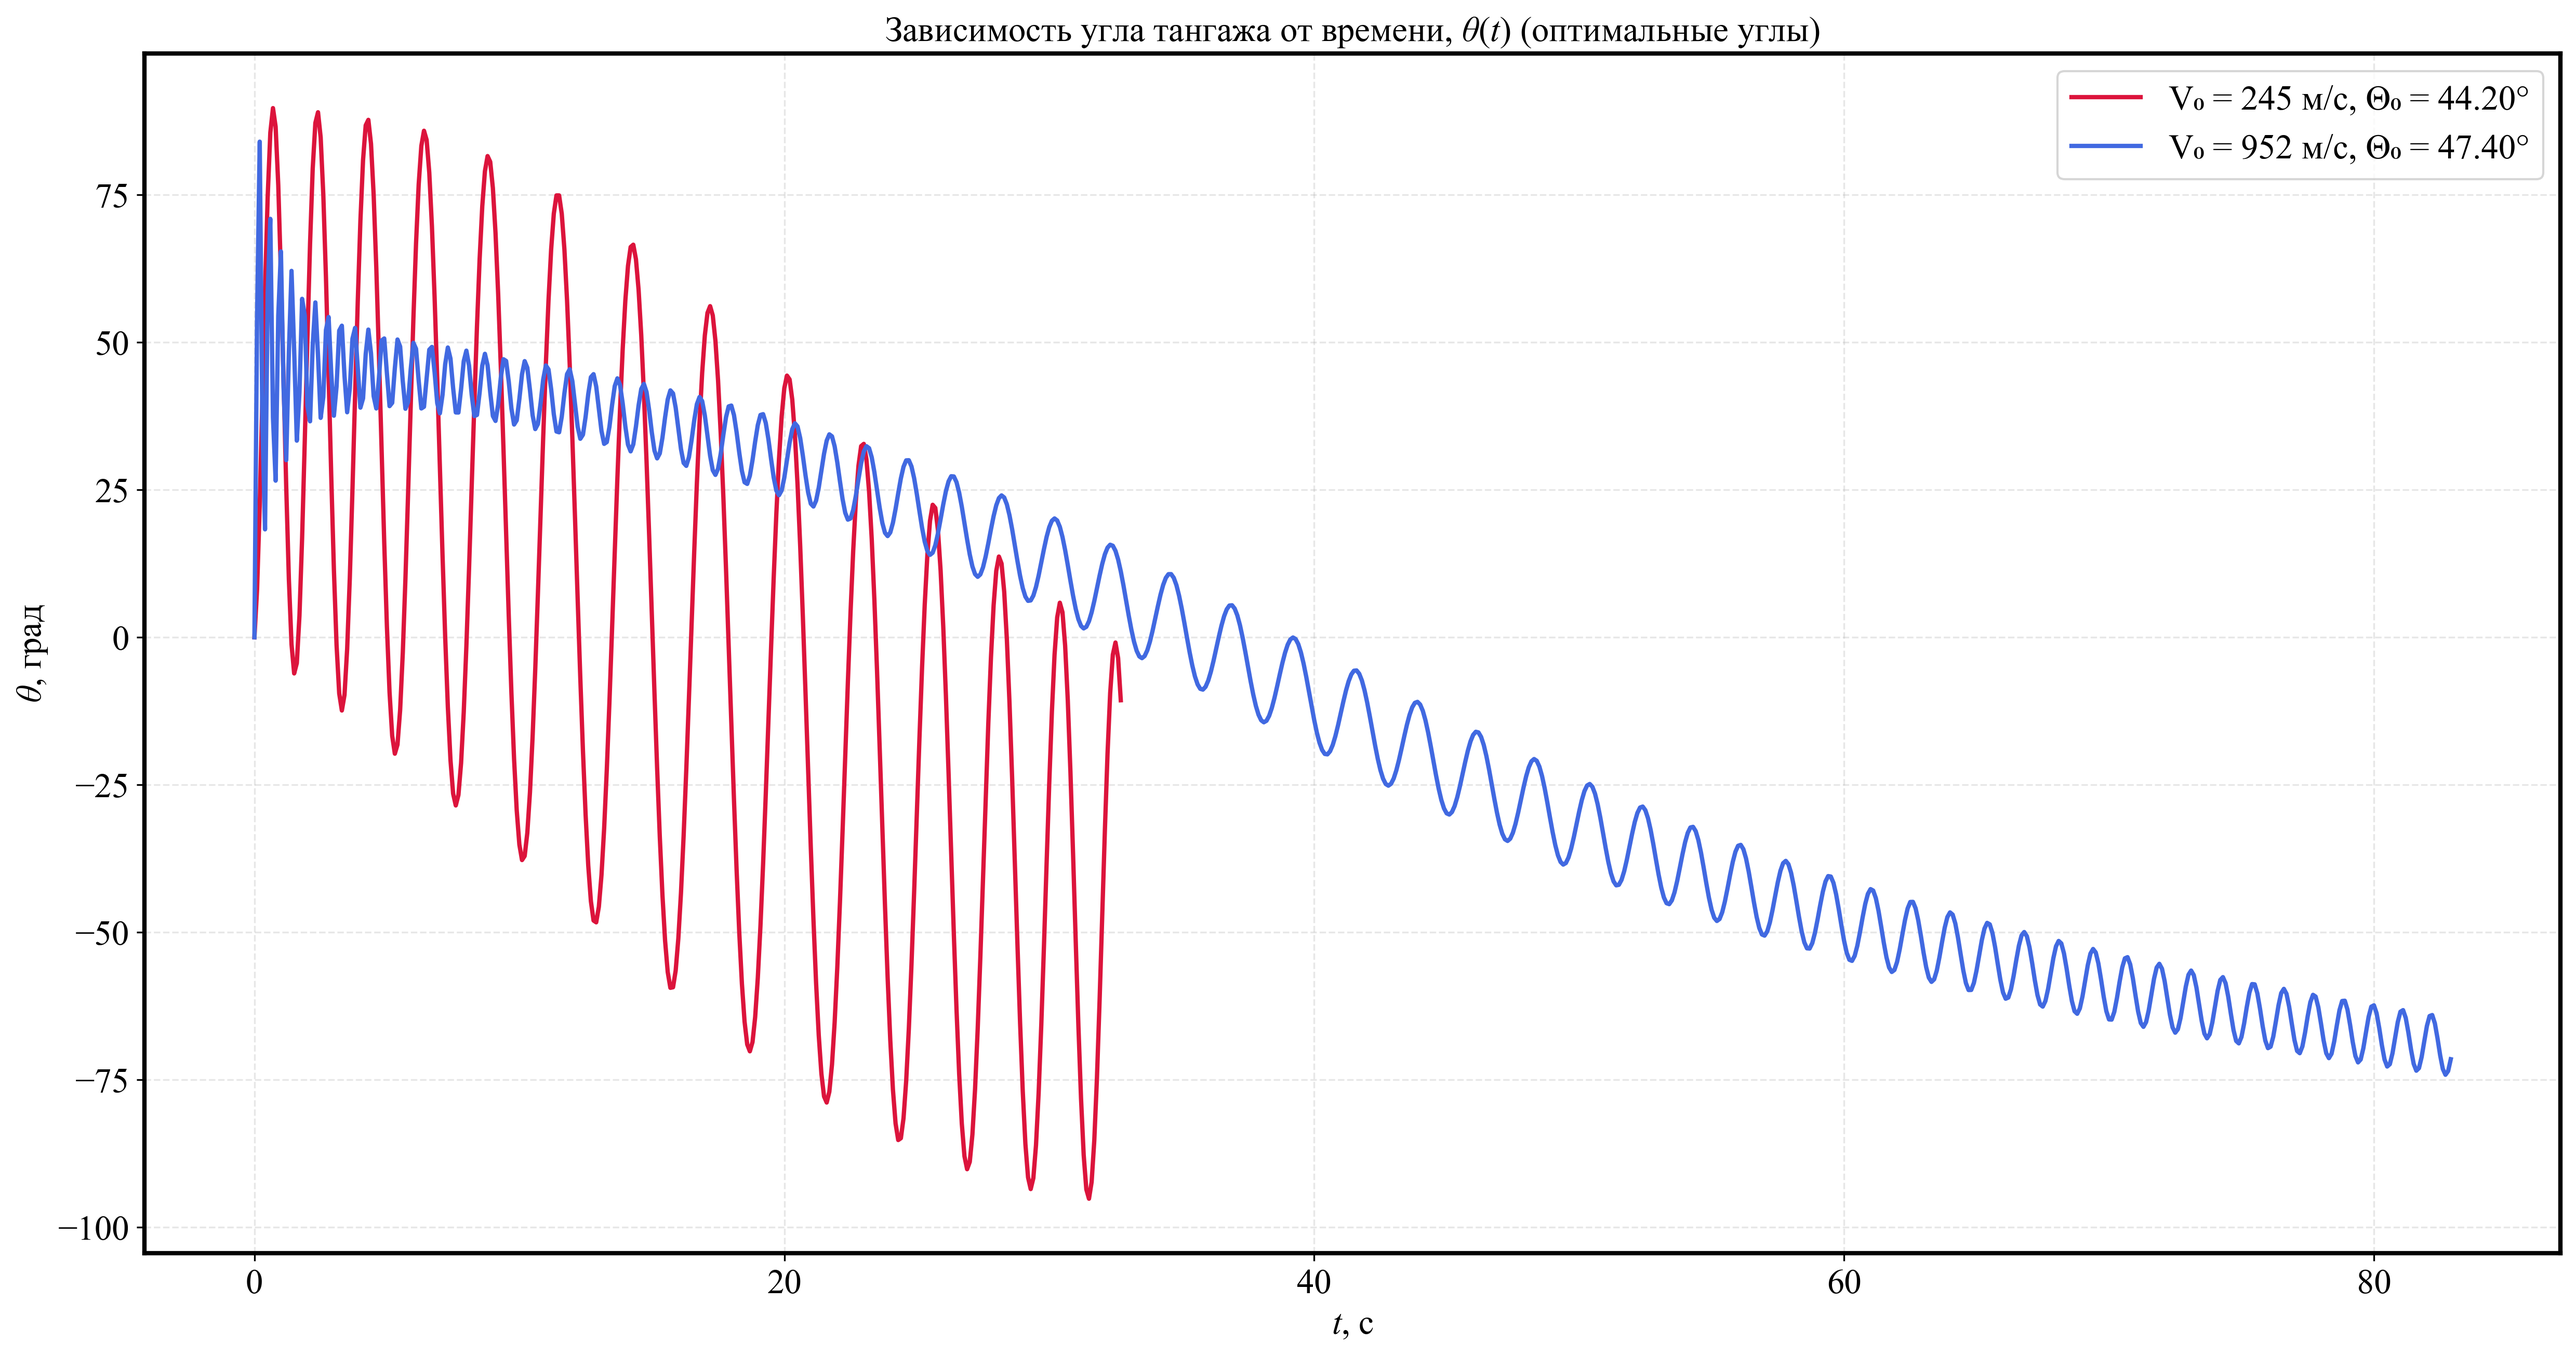
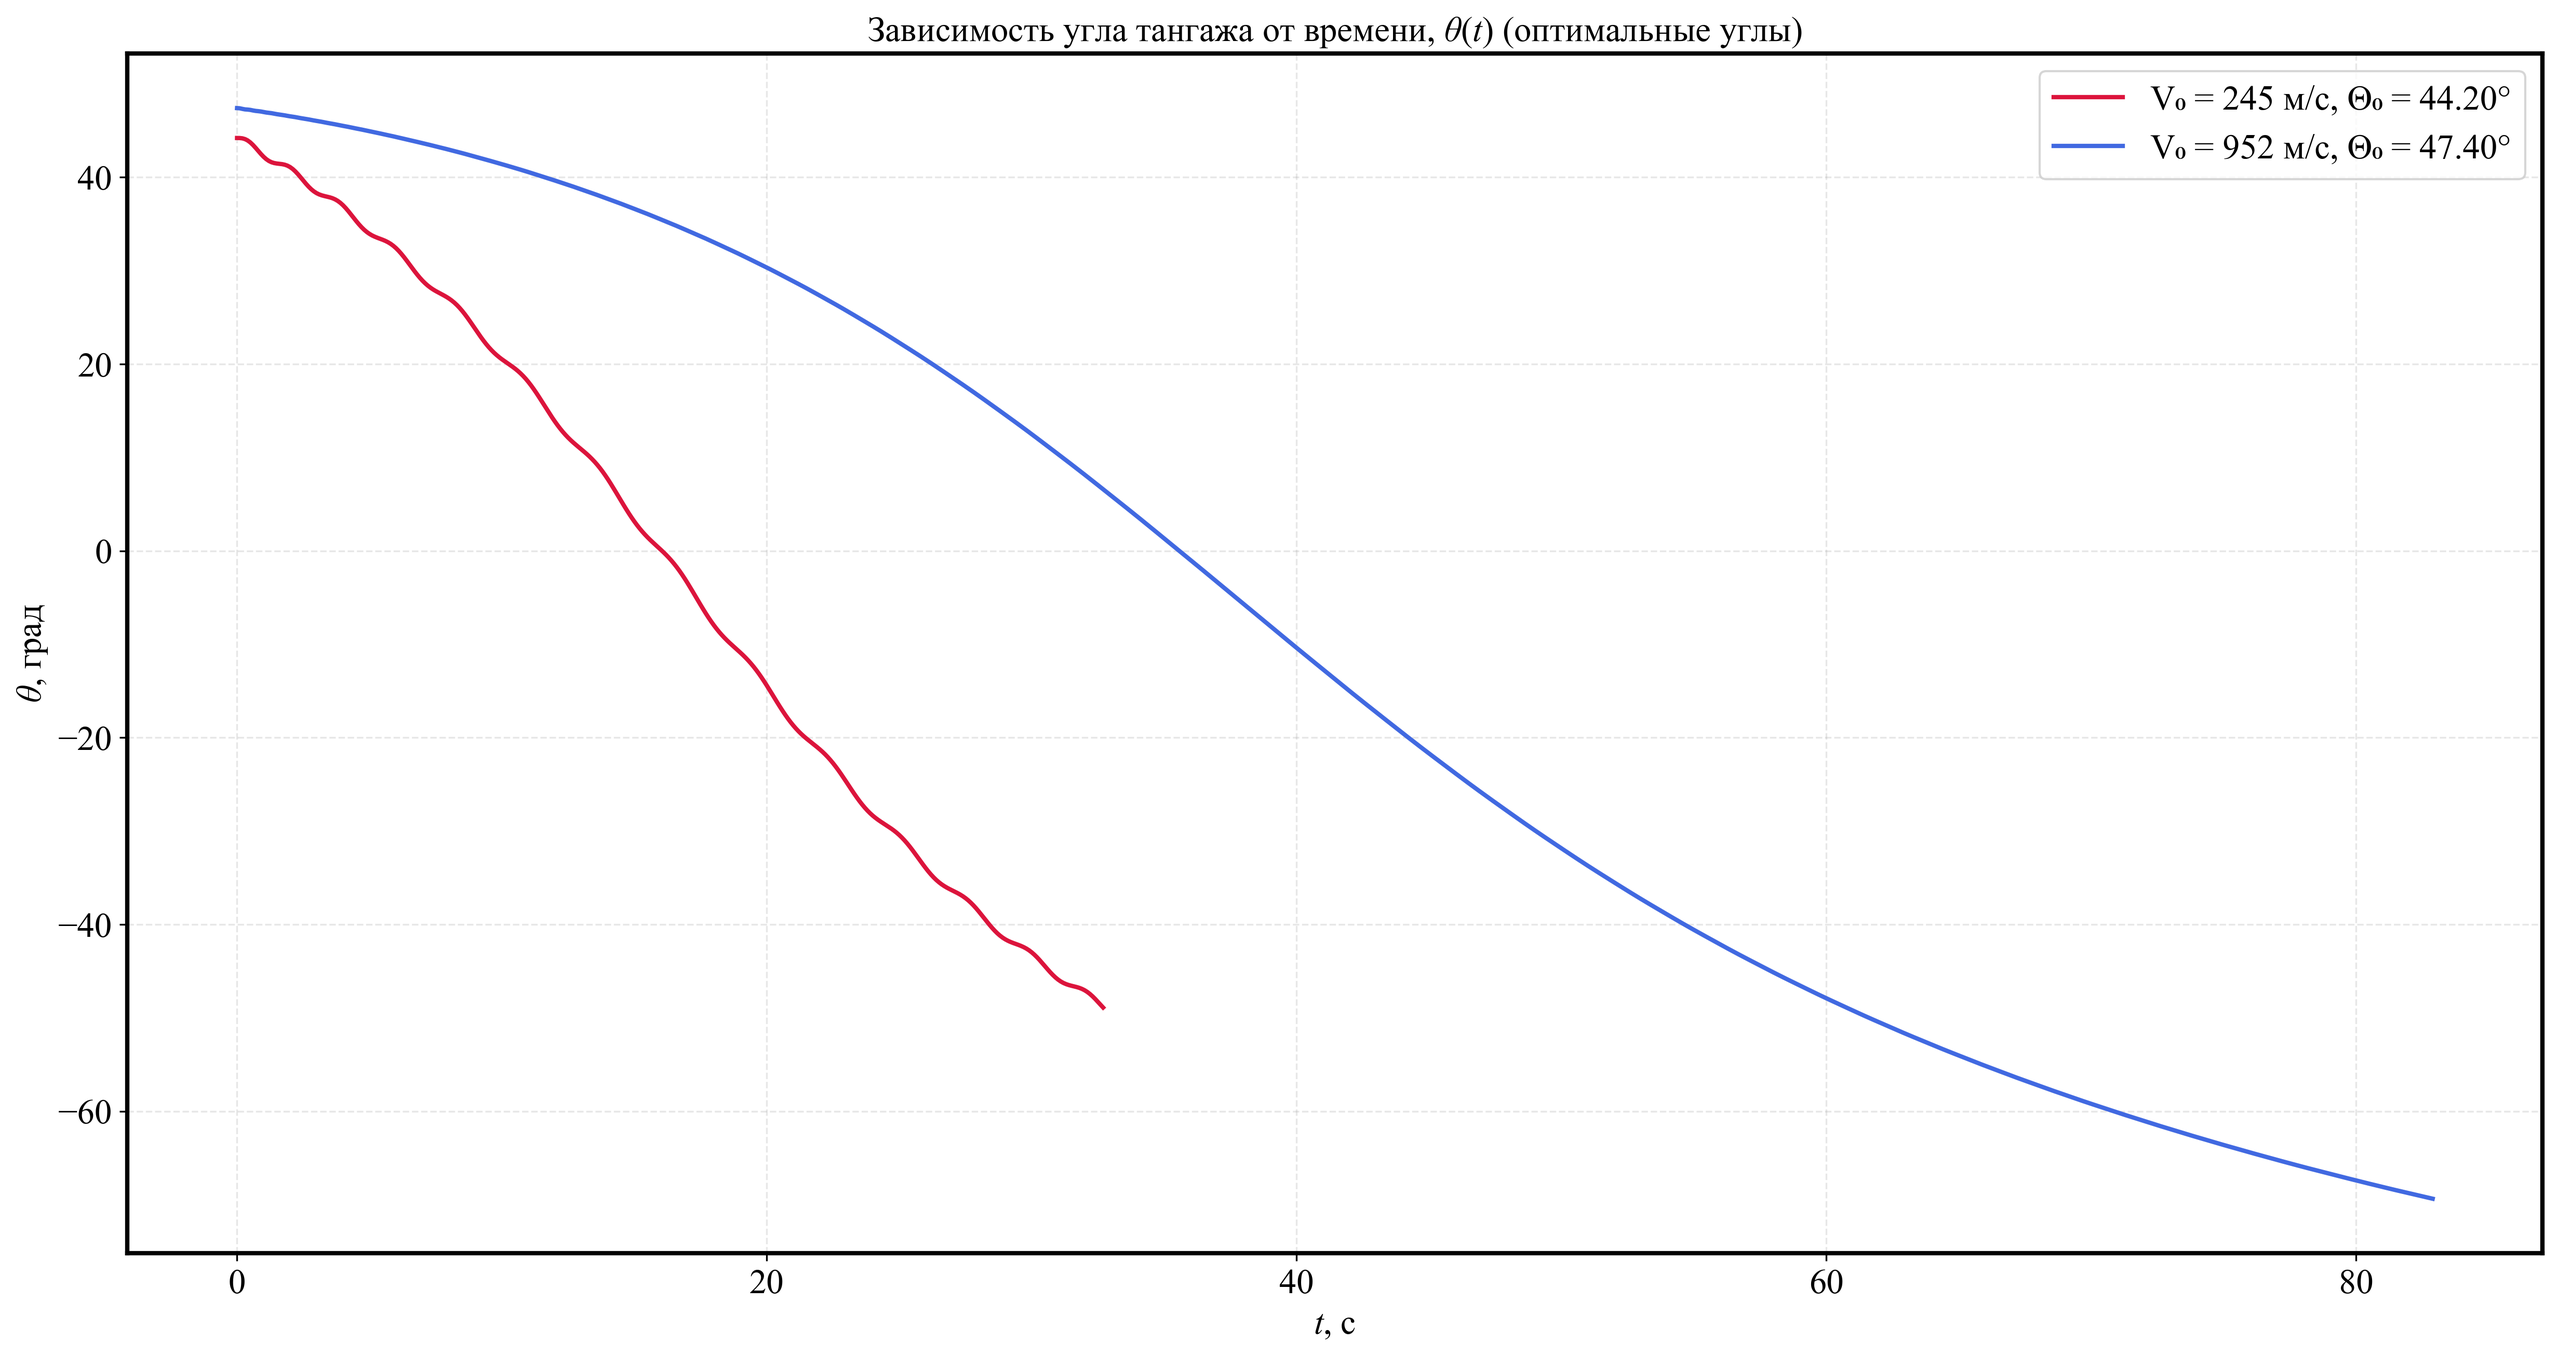
classes and methods updated

diff --git a/Inverse_Problem.py b/Inverse_Problem.py
@@ -138,7 +138,7 @@ class Simulation_Optimal:
 
         # Выполняем расчеты
         for case in self.optimal_cases:
-            init_cond = np.array([case['V'], case['angle_rad'], 0, 0.001, case['angle_rad'], 0])
+            init_cond = np.array([case['V'], case['angle_rad'], 0, 0.001, 0, case['angle_rad']])
 
             result = Runge_Kutta4(
                 self.model.init_ODE_system,
